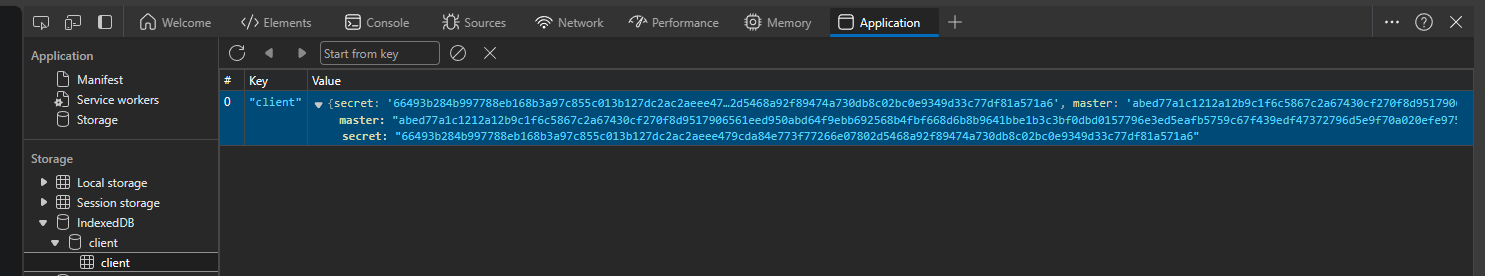
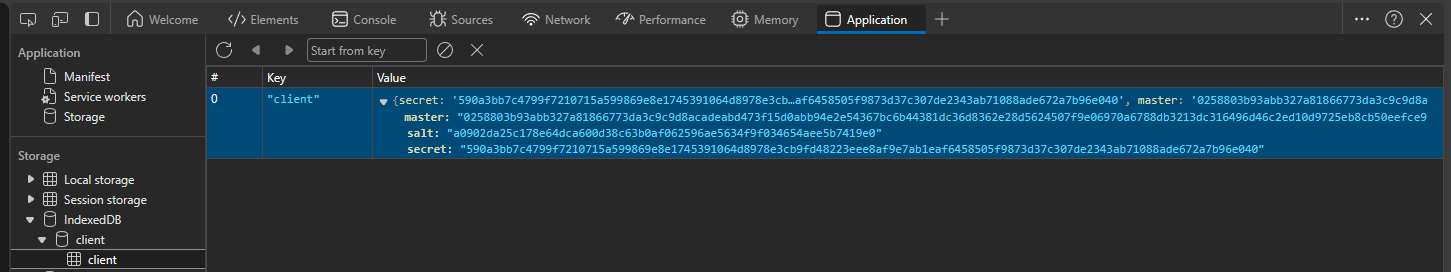
Rewrite Appendix A with HKDF salt (#86)

diff --git a/public/files/appendix-a.ts b/public/files/appendix-a.ts
@@ -15,17 +15,13 @@ function fromHex(hex: string) {
 type KeyType = "authentication" | "masterEnc";
 type Key<T extends KeyType> = T extends "authentication" ? string : CryptoKey;
 
-async function generateKey<T extends KeyType>(password: string, type: T): Promise<Key<T>> {
+async function generateKey<T extends KeyType>(password: string, type: T, salt: Uint8Array): Promise<Key<T>> {
     // read the password and pass it through HKDF
     const rawPassword = new TextEncoder().encode(password);
     const passwordKey = await crypto.importKey("raw", rawPassword, { name: "HKDF" }, false, ["deriveBits"]);
 
     // salt: empty Uint8Array, info: type
-    const bits = await crypto.deriveBits(
-        { name: "HKDF", hash: "SHA-256", salt: new Uint8Array(), info: new TextEncoder().encode(type) },
-        passwordKey,
-        256
-    );
+    const bits = await crypto.deriveBits({ name: "HKDF", hash: "SHA-256", salt, info: new TextEncoder().encode(type) }, passwordKey, 256);
 
     // if it's the authentication key, we need to convert the bytes to a hex string
     // otherwise, return the bytes as an AES key
@@ -54,10 +50,16 @@ class Client {
      */
     #masterEnc: CryptoKey;
 
-    constructor(secret: Uint8Array, masterKey: CryptoKey, masterEnc: CryptoKey) {
+    /**
+     * The salt used to influence the HKDF function
+     */
+    #salt: Uint8Array;
+
+    constructor(secret: Uint8Array, masterKey: CryptoKey, masterEnc: CryptoKey, salt: Uint8Array) {
         this.#secret = secret;
         this.#masterKey = masterKey;
         this.#masterEnc = masterEnc;
+        this.#salt = salt;
     }
 
     async export() {
@@ -77,7 +79,8 @@ class Client {
 
         const final = {
             secret: toHex(secretCipherText),
-            master: toHex(masterCipherText)
+            master: toHex(masterCipherText),
+            salt: toHex(this.#salt)
         };
 
         // store the encrypted data in the database
@@ -101,12 +104,13 @@ class Client {
         const secret = globalThis.crypto.getRandomValues(new Uint8Array(32));
 
         // generate the encryption key for the master key
-        const masterEnc = await generateKey(password, "masterEnc");
+        const salt = globalThis.crypto.getRandomValues(new Uint8Array(32));
+        const masterEnc = await generateKey(password, "masterEnc", salt);
 
-        const client = new Client(secret, masterKey, masterEnc);
+        const client = new Client(secret, masterKey, masterEnc, salt);
 
         // now generate the authentication key
-        const authenticationKey = await generateKey(password, "authentication");
+        const authenticationKey = await generateKey(password, "authentication", salt);
 
         // this is where we would send the authentication key to the server and implement the rest of the registration process
         console.log("Registering user with authentication key:", authenticationKey);
@@ -124,14 +128,16 @@ class Client {
             dataRequest.onsuccess = () => resolve(dataRequest.result);
         });
 
+        const salt = fromHex(state.salt);
+
         // generate the authentication key
-        const authenticationKey = await generateKey(password, "authentication");
+        const authenticationKey = await generateKey(password, "authentication", salt);
 
         // this is where we would send the authentication key to the server and implement the rest of the login process
         console.log("Logging in user with authentication key:", authenticationKey);
 
         // decrypt the master key
-        const masterEncKey = await generateKey(password, "masterEnc");
+        const masterEncKey = await generateKey(password, "masterEnc", salt);
         const masterCipherText = fromHex(state.master);
         const masterIV = masterCipherText.slice(0, 12);
         const masterEnc = masterCipherText.slice(12);
@@ -151,7 +157,7 @@ class Client {
         const secretEnc = secretCipherText.slice(12);
         const secret = await crypto.decrypt({ name: "AES-GCM", iv: secretIV }, masterKey, secretEnc).then((pt) => new Uint8Array(pt));
 
-        return new Client(secret, masterKey, masterEncKey);
+        return new Client(secret, masterKey, masterEncKey, salt);
     }
 }
 
